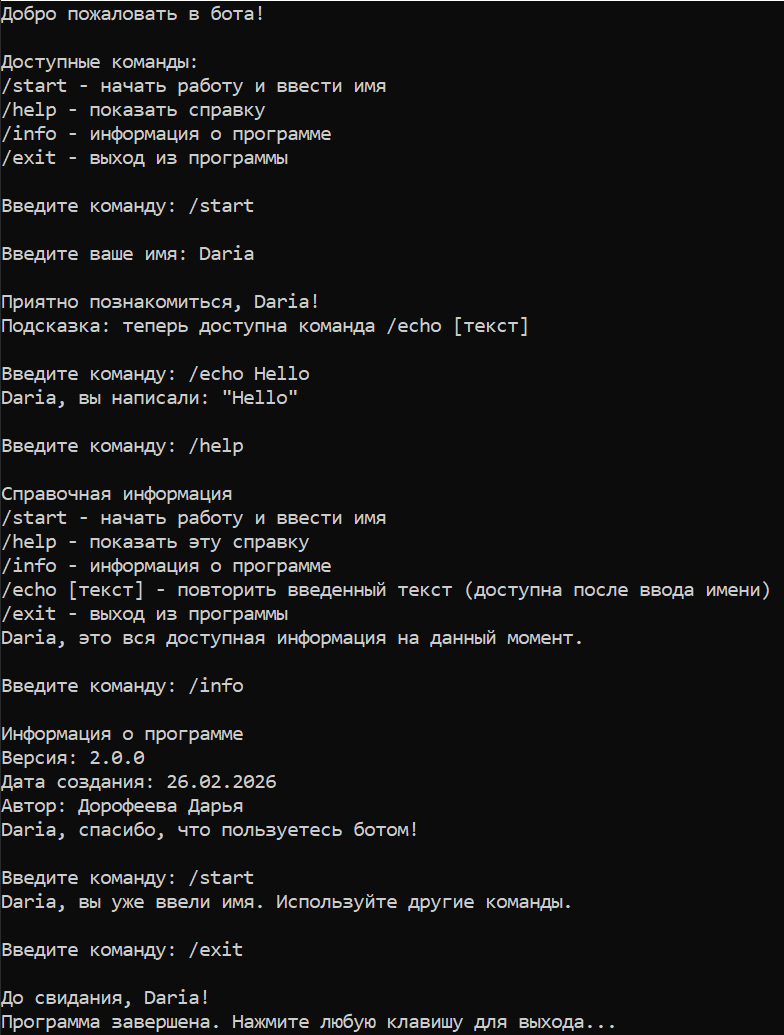
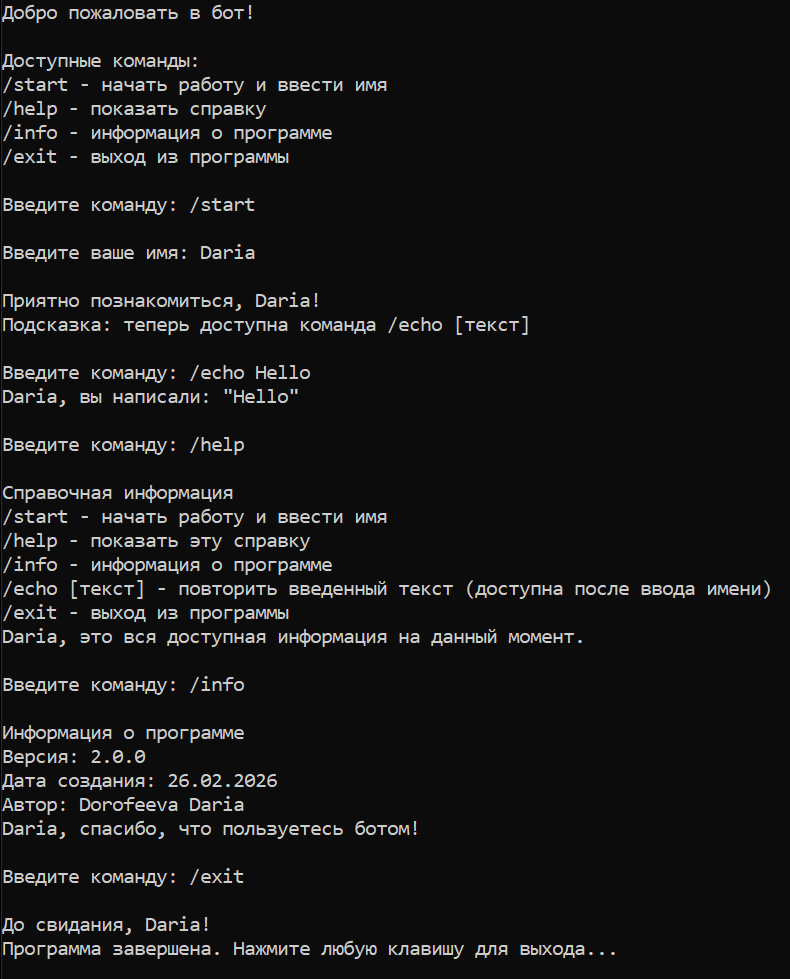
Корректировка

Changed region(s): [[0.0, 0.0, 0.9796, 1.0]]

diff --git a/TelegramBotConsole.cs b/TelegramBotConsole.cs
@@ -11,7 +11,7 @@ namespace TelegramBotConsole
             bool isNameEntered = false;
             bool waitingForName = false;
 
-            Console.WriteLine("Добро пожаловать в бота!\n");
+            Console.WriteLine("Добро пожаловать в бот!\n");
             Console.WriteLine("Доступные команды:");
             Console.WriteLine("/start - начать работу и ввести имя");
             Console.WriteLine("/help - показать справку");
@@ -99,7 +99,7 @@ namespace TelegramBotConsole
                         Console.WriteLine("Информация о программе");
                         Console.WriteLine("Версия: 2.0.0");
                         Console.WriteLine("Дата создания: 26.02.2026");
-                        Console.WriteLine("Автор: Дорофеева Дарья");
+                        Console.WriteLine("Автор: Dorofeeva Daria");
                         PrintPersonalizedMessage(isNameEntered, userName, "спасибо, что пользуетесь ботом!");
                         break;
 
